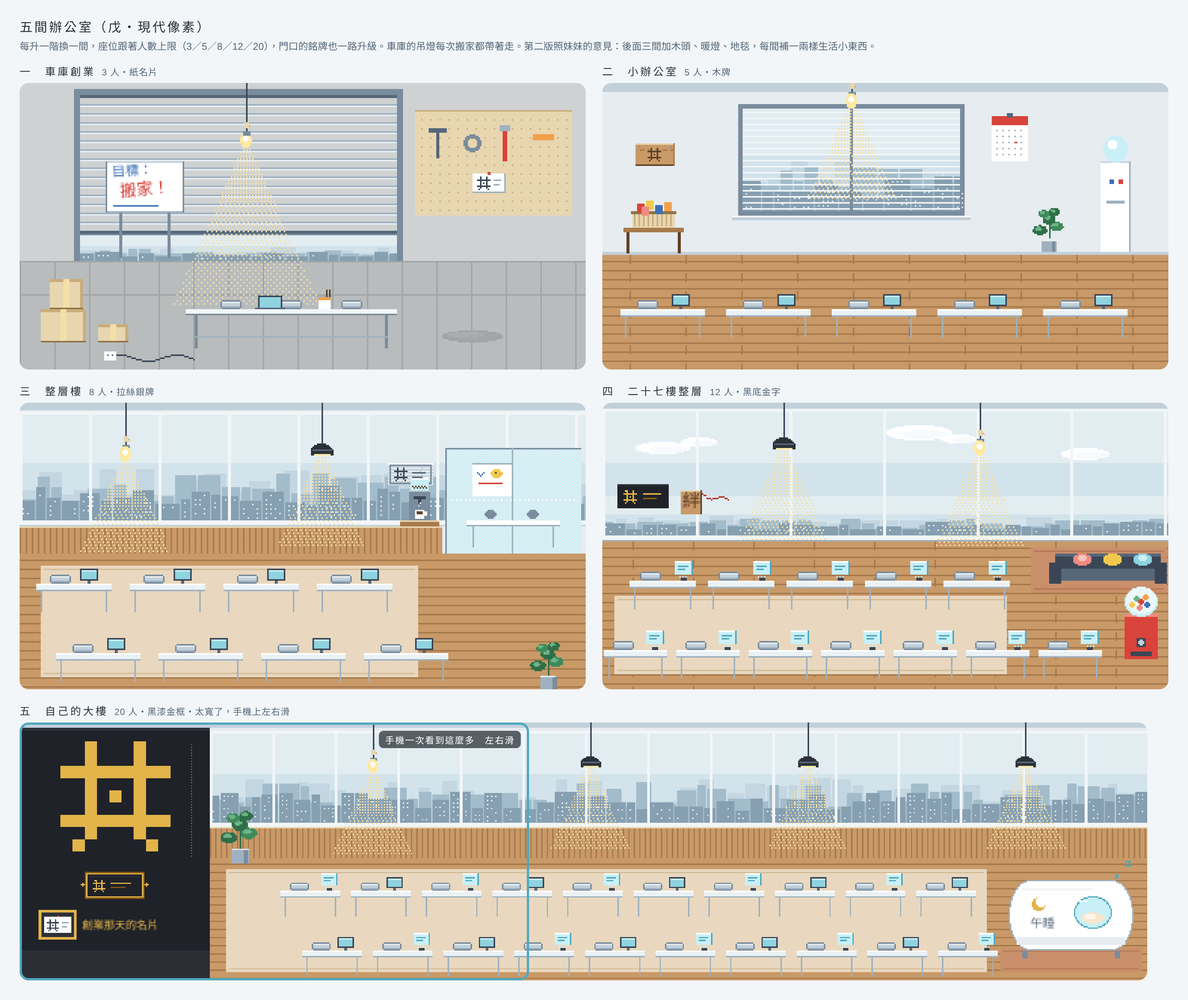
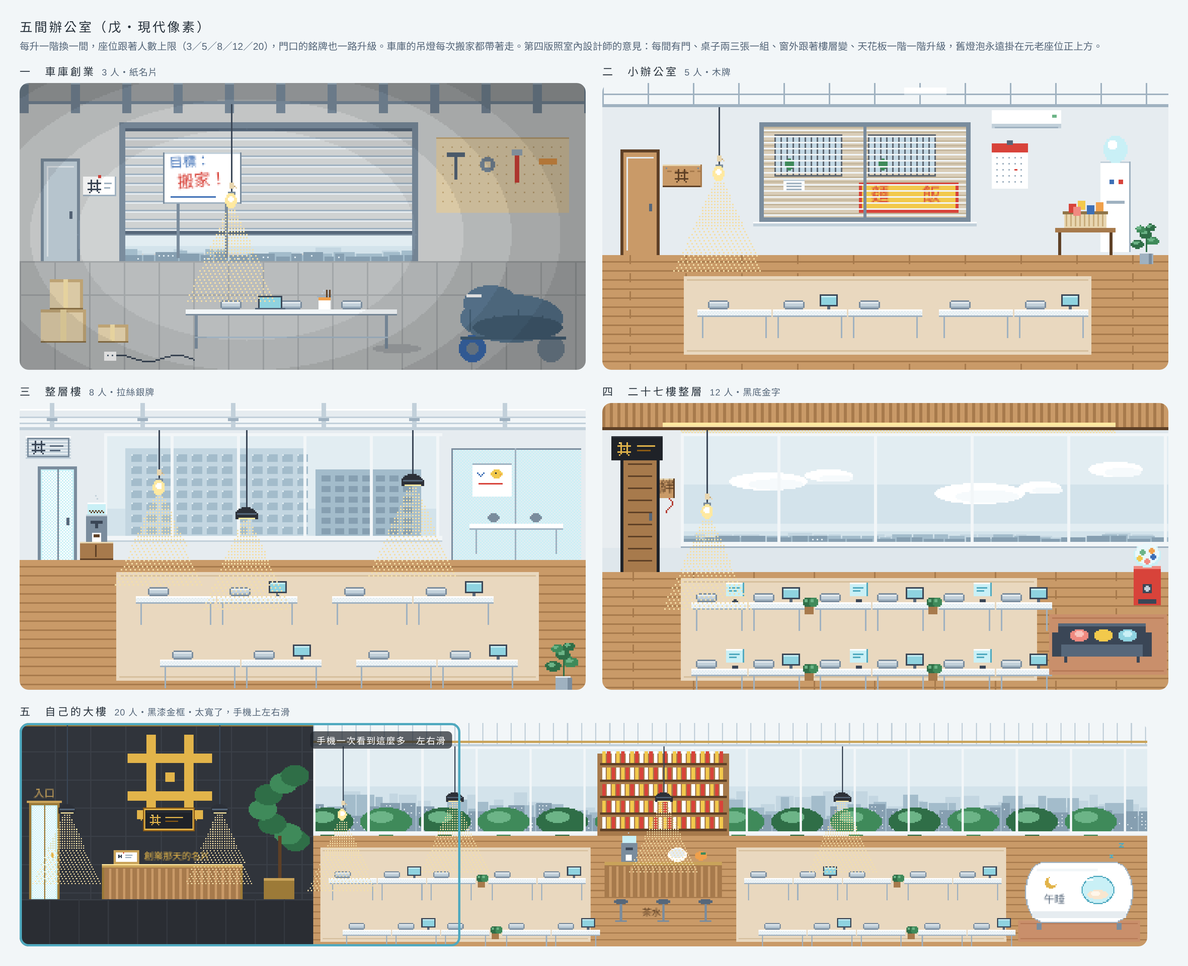
docs: offices v4 per interior designer
Claude-Session: https://claude.ai/code/session_01DfELKGAuUeHGLNNJha5AAX

diff --git a/docs/plans/company/office5.html b/docs/plans/company/office5.html
@@ -5,18 +5,18 @@ body { margin: 0; background: #e4e2dd; font-family: "Noto Sans TC", sans-serif; 
 .wrap { display: inline-block; padding: 22px 26px 26px; background: #f2f6f8; }
 h1 { font-size: 17px; font-weight: 500; letter-spacing: .15em; margin: 0 0 4px; } p { font-size: 13px; margin: 0 0 14px; color: #56677a; }
 .grid { display: grid; grid-template-columns: repeat(2, 750px); gap: 18px 22px; }
-.cell h2 { font-size: 14px; font-weight: 500; letter-spacing: .2em; margin: 0 0 6px; } .wide { grid-column: span 2; } .scroll { position: relative; width: 1494px; } .scroll canvas { width: 1494px; height: 342px; } .view { position: absolute; left: 0; top: 0; width: 675px; height: 342px; border: 3px solid #4fa9bf; border-radius: 12px; box-sizing: border-box; pointer-events: none; } .view span { position: absolute; right: 8px; top: 8px; background: rgba(28,34,41,.7); color: #fff; font-size: 12px; padding: 3px 8px; border-radius: 6px; letter-spacing: .1em; }
+.cell h2 { font-size: 14px; font-weight: 500; letter-spacing: .2em; margin: 0 0 6px; } .wide { grid-column: span 2; } .scroll { position: relative; width: 1494px; } .scroll canvas { width: 1494px; height: 296px; } .view { position: absolute; left: 0; top: 0; width: 584px; height: 296px; border: 3px solid #4fa9bf; border-radius: 12px; box-sizing: border-box; pointer-events: none; } .view span { position: absolute; right: 8px; top: 8px; background: rgba(28,34,41,.7); color: #fff; font-size: 12px; padding: 3px 8px; border-radius: 6px; letter-spacing: .1em; }
 .cell h2 small { font-size: 12px; color: #56677a; letter-spacing: .05em; margin-left: 8px; }
 canvas { image-rendering: pixelated; width: 750px; height: 380px; display: block; border-radius: 12px; }
 </style></head><body><div class="wrap">
 <h1>五間辦公室（戊・現代像素）</h1>
-<p>每升一階換一間，座位跟著人數上限（3／5／8／12／20），門口的銘牌也一路升級。車庫的吊燈每次搬家都帶著走。第二版照妹妹的意見：後面三間加木頭、暖燈、地毯，每間補一兩樣生活小東西。</p>
+<p>每升一階換一間，座位跟著人數上限（3／5／8／12／20），門口的銘牌也一路升級。車庫的吊燈每次搬家都帶著走。第四版照室內設計師的意見：每間有門、桌子兩三張一組、窗外跟著樓層變、天花板一階一階升級，舊燈泡永遠掛在元老座位正上方。</p>
 <div class="grid">
   <div class="cell"><h2>一　車庫創業<small>3 人・紙名片</small></h2><canvas id="s1" width="375" height="190"></canvas></div>
   <div class="cell"><h2>二　小辦公室<small>5 人・木牌</small></h2><canvas id="s2" width="375" height="190"></canvas></div>
   <div class="cell"><h2>三　整層樓<small>8 人・拉絲銀牌</small></h2><canvas id="s3" width="375" height="190"></canvas></div>
   <div class="cell"><h2>四　二十七樓整層<small>12 人・黑底金字</small></h2><canvas id="s4" width="375" height="190"></canvas></div>
-  <div class="cell wide"><h2>五　自己的大樓<small>20 人・黑漆金框・太寬了，手機上左右滑</small></h2><div class="scroll"><canvas id="s5" width="830" height="190"></canvas><div class="view"><span>手機一次看到這麼多　左右滑</span></div></div></div>
+  <div class="cell wide"><h2>五　自己的大樓<small>20 人・黑漆金框・太寬了，手機上左右滑</small></h2><div class="scroll"><canvas id="s5" width="960" height="190"></canvas><div class="view"><span>手機一次看到這麼多　左右滑</span></div></div></div>
 </div>
 </div>
 <script>
@@ -63,122 +63,178 @@ function stage(id, draw) {
     cone(lx, top + len + 9, 61); };
   const txt = (str, a, b, size, col, rot = 0) => { x.save(); x.translate(a, b); x.rotate(rot); x.fillStyle = col; x.font = `${size}px "Noto Sans TC", sans-serif`; x.textBaseline = 'top'; x.fillText(str, 0, 0); x.restore(); };
   const rug = (a, b, w, h, c1, c2) => { R(a, b, w, h, c1); R(a + 2, b + 2, w - 4, 1, c2); R(a + 2, b + h - 3, w - 4, 1, c2); };
-  draw({ R, px, el, checker, dither, glyph, city, glassDesk, monitor, cushion, plant, sign, lamp, newLamp, txt, rug, W });
+  draw({ R, px, el, checker, dither, glyph, city, glassDesk, monitor, cushion, plant, sign, lamp, newLamp, txt, rug, W, x, cone });
 }
 
-// ===== 一　車庫創業：半開的鐵捲門、水泥地、一張折疊桌三個坐墊、吊燈泡、紙箱、延長線 =====
-stage('s1', ({ R, px, el, checker, dither, glyph, city, glassDesk, monitor, cushion, plant, sign, lamp, newLamp, txt, rug, W }) => {
+// 第四版（2026-11-25，室內設計師）：每間左邊有門、銘牌掛在門邊牆上；桌子兩三張一組、中間留走道；窗外跟著樓層變；
+// 天花板一階一階不一樣（車庫裸露低樑 → 輕鋼架 → 管線外露漆白 → 木格柵＋線型燈 → 大廳挑高）；舊燈泡永遠掛在元老座位正上方。
+const C2 = { ap: '#d9cdb8', ap2: '#c4b69c', grill: '#5d6670', tarp: '#5f7f9a', tarp2: '#4a6880', tire: '#2c3038', stone: '#30343b', stone2: '#3a3f47', brass: '#c9a35a', brass2: '#9c7a38' };
+const kit = K => { const { R, px, el, checker, dither, glyph, cushion, glassDesk, monitor, x, W } = K;
+  return {
+    door: (a, top, bot, style) => { const w = 22;   // 門：框＋門板＋把手
+      const fr = style === 1 ? C.g1 : style === 2 ? C.wd0 : style === 3 ? C.g1 : style === 4 ? C.bk : C2.brass2, pn = style === 1 ? C.g3 : style === 2 ? C.wd : style === 3 ? C.cy2 : style === 4 ? C.wd2 : C.cy2;
+      R(a - 2, top - 2, w + 4, bot - top + 2, fr); R(a, top, w, bot - top, pn);
+      if (style === 3 || style === 5) { dither(a + 1, top + 1, w - 2, bot - top - 2, C.wh); R(a + w / 2, top, 1, bot - top, fr); } else if (style === 4) { R(a + 2, top + 3, w - 4, 1, C.wd); for (let j = top + 6; j < bot - 3; j += 8) R(a + 3, j, w - 6, 1, C.wd0); } else { R(a + 2, top + 3, w - 4, 1, C.g4); R(a + 2, top + 3, 1, bot - top - 6, C.g4); }
+      R(a + w - 5, top + (bot - top) / 2, 2, 5, style === 5 ? C.au1 : C.ink3); },
+    // 一組桌子：n 張靠在一起，第一個 k 是元老位（回傳每張的中心）
+    cluster: (a, y, n, w, opt = {}) => { const xs = []; for (let k = 0; k < n; k++) { const cx = a + w / 2 + k * w; glassDesk(cx, y, w - 1, opt.holo && (k % 2 === 0)); if (!opt.holo && (k % 2 === 1 || n === 1)) monitor(cx + w / 4, y); if (opt.holo && k % 2) monitor(cx + w / 4, y); cushion(cx - w / 5, y); xs.push(cx - w / 5); } return xs; },
+    // 四角壓暗：一圈一圈階梯式（像素感）
+    vignette: (cx, cy, r1, r2, k = .72) => { const im = x.getImageData(0, 0, W, 190), d = im.data;
+      for (let j = 0; j < 190; j++) for (let i = 0; i < W; i++) { const dd = Math.hypot((i - cx) / 1.6, j - cy), t = (dd - r1) / (r2 - r1), f = t <= 0 ? 1 : t < .33 ? .94 : t < .66 ? .87 : t < 1 ? .8 : k; if (f < 1) { const o = (j * W + i) * 4; d[o] *= f; d[o + 1] *= f; d[o + 2] *= f; } }
+      x.putImageData(im, 0, 0); },
+    lowPlant: (a, b, w) => { R(a, b - 6, w, 6, C.wd2); R(a, b - 6, w, 1, C.kr); for (let i = 0; i < w; i += 4) { el(a + i + 2, b - 8, 3, 3, i % 8 ? C.gr1 : C.gr0); el(a + i + 1, b - 9, 1.4, 1, C.gr2); } },   // 矮盆栽隔間
+  }; };
+
+// ===== 一　車庫創業：裸露的低樑、半開鐵捲門、側門＋紙名片、一顆燈泡照元老位、四角壓暗、右邊停一台蓋帆布的機車 =====
+stage('s1', K => { const { R, px, el, checker, dither, city, cushion, sign, txt, cone, W } = K, Q = kit(K);
   R(0, 0, W, H, C.cn3);
-  for (let j = 8; j < 118; j += 6) { R(40, j, 210, 1, C.g2); R(40, j + 1, 210, 1, C.g4); }   // 鐵捲門的橫條
-  R(36, 4, 218, 4, C.g1); R(36, 4, 4, 114, C.g1); R(250, 4, 4, 114, C.g1); R(40, 8, 210, 2, C.ink3);
-  city(40, 100, 210, 18, 7); R(40, 98, 210, 2, C.ink3); R(40, 100, 210, 1, C.g1);   // 門沒拉到底，底下看得到外面
-  R(0, 118, W, 72, C.cn); for (let i = 0; i < W; i += 23) R(i, 118, 1, 72, C.cn2); R(0, 118, W, 1, C.cn2); R(0, 140, W, 1, C.cn2);   // 水泥地
-  el(300, 168, 20, 4, C.cn2); el(296, 167, 12, 2, '#a9adae');   // 地上的油漬
-  // 右邊牆：工具板、紙名片
-  R(262, 18, 104, 70, C.kr); R(262, 18, 104, 1, C.kr2); for (let j = 24; j < 86; j += 6) for (let i = 266; i < 364; i += 6) px(i, j, C.kr2);
-  R(276, 30, 2, 20, C.ink3); R(271, 30, 12, 3, C.ink3); el(300, 40, 6, 6, C.g1); el(300, 40, 3, 3, C.kr); R(320, 28, 3, 24, C.red); R(318, 28, 7, 4, C.g2); R(340, 34, 14, 4, C.o2);
-  sign(300, 60, 1);
-  // 吊燈泡
-  R(150, 0, 1, 34, C.ink2); el(150, 38, 4, 5, C.au2); el(150, 37, 2, 2, C.wh); R(148, 32, 5, 3, C.g1); R(149, 26, 3, 4, C.kr); px(152, 28, C.kr2); px(153, 29, C.kr); for (let j = 44; j < 148; j++) { const half = 3 + (j - 44) * .45, step = j < 80 ? 2 : j < 115 ? 3 : 4; for (let i = Math.round(150 - half); i <= 150 + half; i++) if ((i + j) % step === 0 && (j % 2 === 0)) px(i, j, C.warm); }   // 燈泡往下的光，越下面越淡
-  R(58, 52, 50, 34, C.wh); R(58, 52, 50, 1, C.g3); R(58, 85, 50, 1, C.g2); R(57, 52, 1, 34, C.g1); R(108, 52, 1, 34, C.g1); R(66, 86, 2, 30, C.g1); R(98, 86, 2, 30, C.g1);   // 白板
-  txt('目標：', 61, 55, 9, C.b1, -.05); txt('搬家！', 66, 67, 11, C.red, -.08); R(62, 81, 30, 1, C.b1);
-  // 紙箱
-  [[14, 150, 30, 22], [20, 130, 22, 20], [52, 160, 20, 12]].forEach(([a, b, w, h]) => { R(a, b, w, h, C.kr); R(a, b, w, 2, C.kr2); R(a + w / 2 - 2, b, 4, h, C.warm); R(a + w - 2, b, 2, h, C.kr2); R(a, b + h - 1, w, 1, C.kr0); });
-  // 折疊桌＋三個坐墊
+  for (let j = 30; j < 118; j += 6) { R(70, j, 190, 1, C.g2); R(70, j + 1, 190, 1, C.g4); }   // 鐵捲門的橫條
+  R(66, 26, 198, 4, C.g1); R(66, 26, 4, 92, C.g1); R(260, 26, 4, 92, C.g1); R(70, 30, 190, 2, C.ink3);
+  city(70, 100, 190, 18, 7); R(70, 98, 190, 2, C.ink3); R(70, 100, 190, 1, C.g1);
+  R(0, 0, W, 12, C.cn2); for (let i = 0; i < W; i += 34) { R(i, 0, 6, 20, C.g1); R(i, 0, 6, 1, C.g2); } R(0, 12, W, 2, C.g1);   // 裸露的低樑
+  Q.door(16, 52, 118, 1); sign(42, 62, 1);   // 側門＋門邊的紙名片
+  R(0, 118, W, 72, C.cn); for (let i = 0; i < W; i += 23) R(i, 118, 1, 72, C.cn2); R(0, 118, W, 1, C.cn2); R(0, 140, W, 1, C.cn2);
+  el(250, 176, 16, 3, C.cn2);
+  R(276, 36, 88, 50, C.kr); R(276, 36, 88, 1, C.kr2); for (let j = 42; j < 84; j += 6) for (let i = 280; i < 362; i += 6) px(i, j, C.kr2);   // 洞洞板工具牆
+  R(288, 46, 2, 18, C.ink3); R(283, 46, 12, 3, C.ink3); el(310, 54, 5, 5, C.g1); el(310, 54, 2.5, 2.5, C.kr); R(328, 44, 3, 22, C.red); R(326, 44, 7, 4, C.g2); R(344, 50, 12, 4, C.o2);
+  R(96, 46, 50, 34, C.wh); R(96, 46, 50, 1, C.g3); R(96, 79, 50, 1, C.g2); R(95, 46, 1, 34, C.g1); R(146, 46, 1, 34, C.g1); R(104, 80, 2, 36, C.g1); R(136, 80, 2, 36, C.g1);   // 白板
+  txt('目標：', 99, 49, 9, C.b1, -.05); txt('搬家！', 104, 61, 11, C.red, -.08); R(100, 75, 30, 1, C.b1);
+  // 機車蓋著帆布（右半邊）
+  el(300, 176, 9, 9, C.tire); el(300, 176, 4, 4, C.g1); el(352, 176, 9, 9, C.tire); el(352, 176, 4, 4, C.g1);
+  el(326, 156, 34, 16, C2.tarp); el(312, 146, 18, 12, C2.tarp); el(330, 162, 30, 8, C2.tarp2); for (let k = 0; k < 4; k++) R(298 + k * 16, 150 + (k % 2) * 4, 1, 14, C2.tarp2); R(292, 168, 70, 2, C2.tarp2); R(296, 140, 10, 2, C.wh);
+  [[14, 150, 30, 22], [20, 130, 22, 20], [52, 160, 20, 12]].forEach(([a, b, w, h]) => { R(a, b, w, h, C.kr); R(a, b, w, 2, C.kr2); R(a + w / 2 - 2, b, w > 25 ? 4 : 3, h, C.warm); R(a + w - 2, b, 2, h, C.kr2); R(a, b + h - 1, w, 1, C.kr0); });
   const ty = 150; R(110, ty, 140, 3, C.g5); R(110, ty + 3, 140, 1, C.g1); R(116, ty + 4, 2, 22, C.g1); R(242, ty + 4, 2, 22, C.g1); R(116, ty + 18, 128, 1, C.g2);
   [140, 180, 220].forEach(cx => cushion(cx, ty));
-  R(158, ty - 9, 16, 9, C.ink2); R(159, ty - 8, 14, 7, C.cy); R(156, ty - 1, 20, 1, C.ink3);   // 一台筆電
-  R(198, ty - 8, 8, 8, C.wh); R(198, ty - 8, 8, 2, C.o2); R(197, ty - 9, 10, 1, C.g2); R(203, ty - 13, 1, 5, C.wd0); R(205, ty - 13, 1, 5, C.wd0); px(200, ty - 11, C.g3); px(201, ty - 13, C.g3);   // 一碗泡麵（插著筷子、冒煙）
-  for (let i = 60; i < 116; i++) px(i, 182 + Math.round(Math.sin(i / 6) * 2), C.ink2); R(56, 178, 8, 6, C.wh); px(58, 180, C.ink3); px(61, 180, C.ink3);   // 延長線
+  R(158, ty - 9, 16, 9, C.ink2); R(159, ty - 8, 14, 7, C.cy); R(156, ty - 1, 20, 1, C.ink3);
+  R(198, ty - 8, 8, 8, C.wh); R(198, ty - 8, 8, 2, C.o2); R(197, ty - 9, 10, 1, C.g2); R(203, ty - 13, 1, 5, C.wd0); R(205, ty - 13, 1, 5, C.wd0); px(200, ty - 11, C.g3); px(201, ty - 13, C.g3);
+  for (let i = 60; i < 116; i++) px(i, 182 + Math.round(Math.sin(i / 6) * 2), C.ink2); R(56, 178, 8, 6, C.wh); px(58, 180, C.ink3); px(61, 180, C.ink3);
+  Q.vignette(150, 100, 70, 130, .74);   // 四角壓暗，燈泡那一圈最亮
+  R(140, 14, 1, 60, C.ink2); R(138, 72, 5, 3, C.g1); R(139, 66, 3, 4, C.kr); px(142, 68, C.kr2); px(143, 69, C.kr); el(140, 78, 4, 5, C.au2); el(140, 77, 2, 2, C.wh); cone(140, 84, 62);   // 舊燈泡：元老位正上方
 });
 
-// ===== 二　小辦公室：一扇百葉窗、五張小桌、飲水機、盆栽、木牌 =====
-stage('s2', ({ R, px, el, checker, dither, glyph, city, glassDesk, monitor, cushion, plant, sign, lamp, newLamp, txt, rug, W }) => {
-  R(0, 0, W, H, C.g4); R(0, 0, W, 6, C.g3); R(0, 112, W, 2, C.g3);
-  R(90, 14, 150, 74, C.g1); city(93, 17, 144, 68, 21); for (let j = 19; j < 84; j += 4) R(93, j, 144, 1, C.g5); R(164, 17, 2, 68, C.g1);   // 一扇窗＋百葉
-  R(86, 88, 158, 3, C.g3); R(86, 88, 158, 1, C.wh);
-  sign(22, 40, 2);
-  R(258, 22, 24, 30, C.wh); R(258, 22, 24, 6, C.red); R(268, 20, 4, 3, C.ink3); for (let j = 31; j < 50; j += 4) for (let i = 261; i < 280; i += 4) px(i, j, C.g2); px(273, 39, C.red); px(274, 39, C.red);   // 牆上的月曆（圈了一天）
-  lamp(165, 0, 8);
-  // 飲水機
-  R(330, 52, 20, 60, C.wh); R(330, 52, 20, 1, C.g3); R(349, 52, 1, 60, C.g2); el(340, 44, 8, 9, C.cy2); el(338, 41, 3, 3, C.wh); R(336, 64, 3, 3, C.b1); R(342, 64, 3, 3, C.red); R(334, 78, 12, 2, C.g2);
-  plant(296, 112, 1.2);
-  R(14, 96, 40, 3, C.wd2); R(16, 99, 2, 14, C.wd0); R(50, 99, 2, 14, C.wd0); R(20, 86, 28, 10, C.kr); for (let i = 21; i < 47; i += 3) R(i, 87, 1, 8, C.kr2); R(19, 85, 30, 2, C.kr0);   // 零食籃
-  [[23, 80, C.red], [29, 78, C.yl], [35, 81, C.b1], [41, 79, C.o2], [26, 82, C.pk]].forEach(([a, b, c]) => R(a, b, 5, 6, c));
-  R(0, 114, W, 76, C.wd); for (let j = 118; j < H; j += 6) R(0, j, W, 1, C.wd2); for (let i = 0; i < W; i += 37) for (let j = 114; j < H; j += 12) R(i + (j % 24 ? 18 : 0), j, 1, 6, C.wd2);   // 木地板
-  [40, 110, 180, 250, 320].forEach((cx, k) => { glassDesk(cx, 150, 56, false); monitor(cx + 12, 150); cushion(cx - 10, 150); });
+// ===== 二　小辦公室：輕鋼架天花板＋一片平板燈、老公寓二樓（窗外對面是鐵窗和招牌）、分離式冷氣、門＋木牌、三張一組＋兩張一組 =====
+stage('s2', K => { const { R, px, el, checker, dither, plant, sign, lamp, txt, rug, W } = K, Q = kit(K);
+  R(0, 0, W, H, C.g4);
+  R(0, 0, W, 14, C.g5); for (let i = 0; i < W; i += 30) R(i, 0, 1, 14, C.g2); R(0, 7, W, 1, C.g2); R(0, 14, W, 2, C.g2); R(200, 3, 28, 4, C.wh); R(200, 7, 28, 1, C.g3);   // 輕鋼架天花板＋平板燈
+  // 窗：對面老公寓（米色磁磚、鐵窗、冷氣、招牌）
+  R(104, 26, 140, 66, C.g1); R(107, 29, 134, 60, C2.ap); for (let j = 29; j < 89; j += 3) R(107, j, 134, 1, C2.ap2);
+  [[114, 34], [176, 34]].forEach(([a, b]) => { R(a, b, 44, 26, C.sky1); for (let i = a; i <= a + 44; i += 4) R(i, b, 1, 28, C2.grill); R(a, b, 45, 1, C2.grill); R(a, b + 13, 45, 1, C2.grill); R(a, b + 27, 45, 1, C2.grill); el(a + 10, b + 20, 3, 4, C.gr1); });   // 鐵窗＋窗台的小盆栽
+  R(120, 64, 14, 8, C.wh); R(120, 64, 14, 1, C.g3); for (let k = 0; k < 3; k++) R(122, 66 + k * 2, 10, 1, C.g2);   // 對面的冷氣
+  R(170, 66, 66, 20, C.red); R(172, 68, 62, 16, C.yl); txt('麵', 178, 69, 12, C.red); txt('飯', 212, 69, 12, C.red);   // 對面一樓的招牌
+  for (let j = 31; j < 88; j += 4) R(107, j, 134, 1, C.g5); R(173, 29, 2, 60, C.g1);   // 這邊的百葉
+  R(100, 92, 148, 3, C.g3); R(100, 92, 148, 1, C.wh);
+  R(258, 18, 46, 12, C.wh); R(258, 27, 46, 3, C.g3); R(260, 29, 42, 1, C.g2); R(298, 21, 3, 2, C.gr2);   // 分離式冷氣
+  Q.door(14, 46, 114, 2); sign(40, 54, 2);   // 門＋木牌
+  R(258, 40, 24, 30, C.wh); R(258, 40, 24, 6, C.red); R(268, 38, 4, 3, C.ink3); for (let j = 49; j < 68; j += 4) for (let i = 261; i < 280; i += 4) px(i, j, C.g2); px(273, 57, C.red); px(274, 57, C.red);   // 月曆
+  R(330, 52, 20, 60, C.wh); R(330, 52, 20, 1, C.g3); R(349, 52, 1, 60, C.g2); el(340, 44, 8, 9, C.cy2); el(338, 41, 3, 3, C.wh); R(336, 64, 3, 3, C.b1); R(342, 64, 3, 3, C.red); R(334, 78, 12, 2, C.g2);   // 飲水機
+  R(0, 114, W, 76, C.wd); for (let j = 118; j < H; j += 6) R(0, j, W, 1, C.wd2); for (let i = 0; i < W; i += 37) for (let j = 114; j < H; j += 12) R(i + (j % 24 ? 18 : 0), j, 1, 6, C.wd2);
+  R(300, 96, 40, 3, C.wd2); R(302, 99, 2, 15, C.wd0); R(336, 99, 2, 15, C.wd0); R(306, 86, 28, 10, C.kr); for (let i = 307; i < 333; i += 3) R(i, 87, 1, 8, C.kr2); R(305, 85, 30, 2, C.kr0);   // 零食籃（放在邊桌）
+  [[309, 80, C.red], [315, 78, C.yl], [321, 81, C.b1], [327, 79, C.o2], [312, 82, C.pk]].forEach(([a, b, c]) => R(a, b, 5, 6, c));
+  plant(360, 120, 1.1);
+  rug(54, 128, 270, 52, C.rg, C.rg2);
+  const A = Q.cluster(62, 150, 3, 50); Q.cluster(222, 150, 2, 50);   // 三張一組＋兩張一組，中間是走道
+  lamp(A[0], 16, 40);   // 舊燈泡：元老位正上方
 });
 
-// ===== 三　整層樓：一整排落地窗、八個位子（兩排）、玻璃會議室、拉絲銀牌 =====
-stage('s3', ({ R, px, el, checker, dither, glyph, city, glassDesk, monitor, cushion, plant, sign, lamp, newLamp, txt, rug, W }) => {
-  R(0, 0, W, H, C.g4); R(0, 0, W, 5, C.g3);
-  city(0, 8, W, 70, 33); for (let i = 0; i < W; i += 46) R(i, 8, 2, 70, C.g5); R(0, 6, W, 2, C.g5); R(0, 78, W, 3, C.g5); R(0, 81, W, 1, C.g3);
-  // 右邊的玻璃會議室
-  R(282, 30, 90, 70, C.cy2); dither(282, 30, 90, 70, C.sky3); R(282, 30, 90, 1, C.g1); R(282, 30, 1, 70, C.g1); R(326, 30, 1, 70, C.g2); for (let i = 286; i < 370; i += 3) px(i, 64, C.wh);
-  R(296, 78, 62, 3, C.wh); R(296, 81, 62, 1, C.g2); R(300, 82, 1, 14, C.g2); R(353, 82, 1, 14, C.g2); el(312, 74, 4, 3, C.g1); el(340, 74, 4, 3, C.g1);
-  sign(244, 40, 3);
-  R(0, 82, 280, 18, C.wd); for (let i = 0; i < 280; i += 4) R(i, 82, 1, 18, C.wd2); R(0, 82, 280, 1, C.kr);   // 窗下一排木頭牆板
-  R(300, 40, 26, 22, C.wh); R(300, 40, 26, 1, C.g2); [[303, 46], [304, 47], [305, 48], [306, 47], [307, 46]].forEach(([a, b]) => px(a, b, C.b1)); el(316, 47, 4, 3, C.yl); px(315, 46, C.ink); px(318, 47, C.o2); R(304, 53, 16, 1, C.red);   // 會議室白板的塗鴉（畫了一隻鴨）
-  R(0, 100, W, 90, C.wd); for (let j = 104; j < H; j += 6) R(0, j, W, 1, C.wd2);   // 木地板
-  rug(14, 108, 250, 74, C.rg, C.rg2);   // 暖色地毯
-  R(252, 78, 26, 4, C.wd2); R(252, 78, 26, 1, C.kr);   // 小邊櫃
-  R(258, 58, 14, 20, C.g1); R(258, 58, 14, 1, C.g3); R(259, 50, 12, 8, C.cy2); R(259, 50, 12, 1, C.wh); for (let i = 260; i < 270; i += 2) px(i, 55, C.wd0), px(i + 1, 56, C.wd0);   // 咖啡機：上面一罐咖啡豆
-  R(261, 62, 8, 2, C.ink2); R(264, 64, 2, 3, C.ink2); R(262, 71, 6, 6, C.wh); R(263, 72, 4, 2, C.wd0); R(268, 72, 2, 3, C.wh); px(264, 68, C.g3); px(265, 66, C.g4);   // 出水口、一杯咖啡、冒煙
-  px(266, 47, C.g3); px(265, 45, C.g3); px(266, 43, C.g3);
-  lamp(70, 0, 30); newLamp(200, 0, 28);
-  [36, 98, 160, 222].forEach(cx => { glassDesk(cx, 120, 50, false); monitor(cx + 10, 120); cushion(cx - 9, 120); });   // 後排四個
-  [52, 120, 188, 256].forEach(cx => { glassDesk(cx, 166, 56, false); monitor(cx + 12, 166); cushion(cx - 10, 166); });  // 前排四個
-  plant(350, 190, 1.3);
+// ===== 三　整層樓：管線外露漆白、窗外是對面的大樓、門＋拉絲銀牌、兩兩一組四組、玻璃會議室、咖啡機在矮櫃上 =====
+stage('s3', K => { const { R, px, el, checker, dither, city, plant, sign, lamp, newLamp, rug, W } = K, Q = kit(K);
+  R(0, 0, W, H, C.g4);
+  R(0, 0, W, 16, C.g5); el(120, 7, 200, 3.5, C.g4); R(0, 4, W, 6, C.g4); R(0, 4, W, 1, C.wh); R(0, 9, W, 1, C.g3); for (let i = 20; i < W; i += 60) { R(i, 0, 3, 16, C.g3); R(i - 2, 10, 7, 2, C.g2); } R(0, 13, W, 1, C.g3); R(0, 16, W, 2, C.g3);   // 管線外露、漆白
+  // 窗外：對面的大樓立面
+  R(56, 22, 222, 66, C.sky3); R(56, 70, 222, 18, C.sky2);
+  R(70, 30, 120, 58, C.c3); for (let j = 34; j < 88; j += 8) for (let i = 74; i < 186; i += 10) { R(i, j, 7, 5, C.c1); px(i, j, C.sky3); }   // 對面大樓的窗格
+  R(196, 44, 70, 44, C.c1); for (let j = 48; j < 88; j += 7) for (let i = 200; i < 262; i += 9) R(i, j, 6, 4, C.c2);
+  for (let i = 56; i < 280; i += 44) R(i, 22, 2, 66, C.g5); R(56, 20, 224, 2, C.g5); R(56, 88, 224, 3, C.g5); R(56, 91, 224, 1, C.g3);
+  Q.door(14, 44, 108, 3); sign(4, 22, 3);   // 玻璃門＋門上方的拉絲銀牌
+  // 玻璃會議室（右邊）
+  R(286, 30, 86, 74, C.cy2); dither(286, 30, 86, 74, C.sky3); R(286, 30, 86, 1, C.g1); R(286, 30, 1, 74, C.g1); R(328, 30, 1, 74, C.g2);
+  R(300, 40, 26, 22, C.wh); R(300, 40, 26, 1, C.g2); [[303, 46], [304, 47], [305, 48], [306, 47], [307, 46]].forEach(([a, b]) => px(a, b, C.b1)); el(316, 47, 4, 3, C.yl); px(315, 46, C.ink); px(318, 47, C.o2); R(304, 53, 16, 1, C.red);
+  R(298, 80, 62, 3, C.wh); R(298, 83, 62, 1, C.g2); R(302, 84, 1, 16, C.g2); R(355, 84, 1, 16, C.g2); el(314, 76, 4, 3, C.g1); el(342, 76, 4, 3, C.g1);
+  R(0, 104, W, 86, C.wd); for (let j = 108; j < H; j += 6) R(0, j, W, 1, C.wd2);
+  // 咖啡機：放在矮櫃上（門跟窗中間的牆邊）
+  R(40, 92, 22, 12, C.wd2); R(40, 92, 22, 1, C.kr); R(40, 103, 22, 1, C.wd0); R(50, 94, 1, 8, C.wd0);
+  R(44, 74, 14, 18, C.g1); R(44, 74, 14, 1, C.g3); R(45, 66, 12, 8, C.cy2); R(45, 66, 12, 1, C.wh); for (let i = 46; i < 56; i += 2) { px(i, 71, C.wd0); px(i + 1, 72, C.wd0); }
+  R(47, 78, 8, 2, C.ink2); R(50, 80, 2, 3, C.ink2); R(48, 86, 6, 6, C.wh); R(49, 87, 4, 2, C.wd0); px(51, 63, C.g3); px(50, 61, C.g3);
+  rug(64, 112, 280, 72, C.rg, C.rg2);
+  const A = Q.cluster(76, 128, 2, 54); Q.cluster(206, 128, 2, 54);   // 後排兩組
+  Q.cluster(92, 170, 2, 54); Q.cluster(222, 170, 2, 54);   // 前排兩組
+  lamp(A[0], 18, 34); newLamp(260, 18, 30); newLamp(150, 18, 52);
+  plant(360, 190, 1.3);
 });
 
-// ===== 四　二十七樓整層：落地窗看出去在雲上、十二個位子、全息螢幕、沙發區、黑底金字 =====
-stage('s4', ({ R, px, el, checker, dither, glyph, city, glassDesk, monitor, cushion, plant, sign, lamp, newLamp, txt, rug, W }) => {
-  R(0, 0, W, H, '#dfe7ec'); R(0, 0, W, 4, C.g3);
-  R(0, 6, W, 82, C.sky3); R(0, 40, W, 48, C.sky2); city(0, 62, W, 26, 51, 0);   // 27 樓：城市在很下面
-  [[40, 30, 18, 4], [64, 26, 12, 3], [210, 20, 22, 5], [236, 24, 12, 3], [320, 34, 16, 4]].forEach(([a, b, rx, ry]) => { el(a, b, rx, ry, C.wh); el(a + 4, b + 1, rx * .7, ry * .6, C.cl); });   // 雲
-  for (let i = 0; i < W; i += 62) R(i, 6, 2, 82, C.g5); R(0, 4, W, 2, C.g5); R(0, 88, W, 3, C.g5); R(0, 91, W, 1, C.g2);
-  sign(10, 54, 4);
-  R(0, 92, W, 98, C.wd); for (let j = 96; j < H; j += 6) R(0, j, W, 1, C.wd2); for (let i = 0; i < W; i += 40) for (let j = 92; j < H; j += 12) R(i + (j % 24 ? 20 : 0), j, 1, 6, C.wd2);   // 木地板
-  rug(284, 96, 90, 30, C.rg3, '#b77a57');   // 沙發區的地毯
-  rug(8, 128, 260, 52, C.rg, C.rg2);
-  newLamp(120, 0, 24); lamp(250, 0, 26);
-  // 右邊的沙發區
-  R(300, 100, 70, 10, C.ink2); R(300, 100, 70, 2, C.ink3); R(296, 106, 8, 14, C.ink2); R(366, 106, 8, 14, C.ink2); R(304, 110, 62, 8, C.ink3); el(318, 104, 6, 4, C.pk); el(318, 103, 3, 2, C.pk2); el(338, 104, 6, 4, C.yl); el(358, 104, 6, 4, C.cy); el(358, 103, 3, 2, C.cy2);   // 沙發上的抱枕
-  [40, 92, 144, 196, 248].forEach(cx => { glassDesk(cx, 118, 44, true); cushion(cx - 8, 118); });   // 後排
-  [22, 70, 118, 166, 214, 262, 310].forEach(cx => { glassDesk(cx, 164, 42, true); cushion(cx - 8, 164); });   // 前排（右邊留給扭蛋機）
-  // 扭蛋機（跟員工 01～08 呼應）
-  R(346, 140, 22, 30, C.red); R(346, 140, 22, 2, C.pk); R(354, 156, 6, 6, C.ink2); el(357, 159, 2, 2, C.g3); R(350, 165, 14, 3, C.ink2);
-  el(357, 132, 11, 10, C.cy2); el(357, 131, 10, 9, '#eaf8fb'); [[351, 134, C.yl], [356, 136, C.pk], [361, 134, C.b1], [354, 130, C.gr2], [360, 129, C.o2], [357, 132, C.red]].forEach(([a, b, c]) => el(a, b, 2, 2, c)); px(352, 126, C.wh); px(353, 125, C.wh);
-  // 彩蛋：門邊小小一塊「絆」的木牌，綁一條朱色紅線
-  R(52, 58, 14, 16, C.wd); R(52, 58, 14, 1, C.kr); R(65, 58, 1, 16, C.wd0); txt('絆', 53, 60, 12, C.wd0); for (let k = 0; k < 18; k++) px(66 + k, 60 + Math.round(Math.sin(k / 3) * 2) + Math.floor(k / 3), '#b33a2f');
+// ===== 四　二十七樓整層：木格柵天花板＋線型燈、雲就在眼前、門（絆木牌在門柱上）＋黑底金字、兩兩一組六組、矮盆栽隔開、沙發和扭蛋機在地上 =====
+stage('s4', K => { const { R, px, el, checker, dither, city, plant, sign, lamp, txt, rug, W } = K, Q = kit(K);
+  R(0, 0, W, H, '#dfe7ec');
+  R(0, 0, W, 16, C.wd); for (let i = 0; i < W; i += 5) R(i, 0, 2, 16, C.wd2); R(0, 16, W, 2, C.wd0); R(40, 13, 300, 2, C.au2); R(40, 15, 300, 1, C.warm);   // 木格柵天花板＋一條線型燈
+  dither(40, 18, 300, 4, C.warm);
+  R(52, 22, W - 52, 70, C.sky3); R(52, 54, W - 52, 38, C.sky2); city(52, 80, W - 52, 12, 51, 0);   // 往下看：城市在很下面
+  [[110, 52, 26, 6], [150, 48, 16, 4], [250, 60, 30, 7], [290, 56, 14, 4], [340, 44, 18, 5]].forEach(([a, b, rx, ry]) => { el(a, b, rx, ry, C.wh); el(a + 5, b + 2, rx * .7, ry * .6, C.cl); });   // 雲就在眼前
+  for (let i = 52; i < W; i += 64) R(i, 22, 2, 70, C.g5); R(52, 20, W - 52, 2, C.g5); R(52, 92, W - 52, 3, C.g5); R(52, 95, W - 52, 1, C.g2);
+  R(0, 18, 52, 78, '#e8edf0');
+  Q.door(14, 34, 112, 4); sign(6, 22, 4);
+  R(38, 50, 10, 13, C.wd); R(38, 50, 10, 1, C.kr); R(47, 50, 1, 13, C.wd0); txt('絆', 38, 51, 10, C.wd0); for (let k = 0; k < 10; k++) px(44 + Math.round(Math.sin(k / 2) * 2), 63 + k, '#b33a2f');   // 門柱上的「絆」木牌＋紅線垂下來
+  R(0, 112, W, 78, C.wd); for (let j = 116; j < H; j += 6) R(0, j, W, 1, C.wd2); for (let i = 0; i < W; i += 40) for (let j = 112; j < H; j += 12) R(i + (j % 24 ? 20 : 0), j, 1, 6, C.wd2);
+  rug(52, 116, 236, 68, C.rg, C.rg2);
+  const A = Q.cluster(58, 132, 2, 38, { holo: true }); Q.cluster(140, 132, 2, 38, { holo: true }); Q.cluster(222, 132, 2, 38, { holo: true });   // 後排三組
+  Q.lowPlant(134, 140, 6); Q.lowPlant(216, 140, 6);
+  Q.cluster(58, 176, 2, 38, { holo: true }); Q.cluster(140, 176, 2, 38, { holo: true }); Q.cluster(222, 176, 2, 38, { holo: true });   // 前排三組
+  Q.lowPlant(134, 184, 6); Q.lowPlant(216, 184, 6);
+  // 休息區：沙發放在地上、旁邊扭蛋機
+  rug(296, 140, 78, 40, C.rg3, '#b77a57');
+  R(302, 146, 58, 14, C.ink2); R(302, 146, 58, 2, C.ink3); R(298, 152, 8, 16, C.ink2); R(356, 152, 8, 16, C.ink2); R(304, 160, 54, 8, C.ink3); R(306, 168, 2, 4, C.ink2); R(354, 168, 2, 4, C.ink2);
+  el(316, 154, 6, 4, C.pk); el(316, 153, 3, 2, C.pk2); el(332, 154, 6, 4, C.yl); el(348, 154, 6, 4, C.cy); el(348, 153, 3, 2, C.cy2);
+  R(352, 108, 18, 26, C.red); R(352, 108, 18, 2, C.pk); R(358, 120, 6, 6, C.ink2); el(361, 123, 2, 2, C.g3); R(355, 130, 12, 3, C.ink2);
+  el(361, 101, 9, 8, C.cy2); el(361, 100, 8, 7, '#eaf8fb'); [[356, 103, C.yl], [361, 105, C.pk], [365, 102, C.b1], [358, 99, C.gr2], [364, 98, C.o2]].forEach(([a, b, c]) => el(a, b, 2, 2, c));
+  lamp(A[0], 18, 50);
 });
 
-// ===== 五　自己的大樓：太寬了做成左右滑（750 寬，手機一次看 375）。左邊大廳：黑色「丼」字牆、黑漆金框銘牌、牆上裱框的車庫紙名片、吊燈；右邊兩排二十個位子 =====
-stage('s5', ({ R, px, el, checker, dither, glyph, city, glassDesk, monitor, cushion, plant, sign, lamp, newLamp, txt, rug, W }) => {
-  R(0, 0, W, H, C.g4); R(0, 0, W, 4, C.g3);
-  city(140, 8, W - 140, 66, 77); for (let i = 140; i < W; i += 46) R(i, 8, 2, 66, C.g5); R(140, 6, W - 140, 2, C.g5); R(140, 74, W - 140, 3, C.g5);
-  R(140, 77, W - 140, 23, C.wd); for (let i = 140; i < W; i += 4) R(i, 77, 1, 23, C.wd2); R(140, 77, W - 140, 1, C.kr);   // 窗下木牆板
-  R(0, 4, 140, 186, C.bk); R(0, 4, 140, 2, C.bk2); glyph(DON, 30, 14, C.au1, 9); for (let j = 16; j < 100; j += 2) px(126, j, C.au0);   // 黑色「丼」字牆
-  sign(48, 110, 5);
-  R(14, 138, 28, 22, C.au1); R(16, 140, 24, 18, C.bk2); R(18, 143, 20, 12, C.wh); glyph(DON, 20, 145, C.ink2); R(31, 147, 5, 1, C.g2); R(31, 150, 4, 1, C.g2); px(28, 142, C.red);   // 裱框的車庫紙名片
-  txt('創業那天的名片', 46, 146, 8, C.au1);
-  R(0, 168, 140, 22, '#2a2d33'); R(0, 168, 140, 1, C.bk2);
-  R(140, 100, W - 140, 90, C.wd); for (let j = 104; j < H; j += 6) R(140, j, W - 140, 1, C.wd2);
-  rug(152, 108, 560, 76, C.rg, C.rg2);
-  plant(162, 104, 1.6);
-  lamp(260, 0, 28); [420, 580, 740].forEach(lx => newLamp(lx, 0, 26));
-  for (let k = 0; k < 10; k++) { const cx = 214 + k * 52; glassDesk(cx, 124, 44, k % 2 === 0); if (k % 2) monitor(cx + 10, 124); cushion(cx - 8, 124); }   // 後排十個
-  for (let k = 0; k < 10; k++) { const cx = 230 + k * 52; glassDesk(cx, 168, 44, k % 2 === 1); if (k % 2 === 0) monitor(cx + 10, 168); cushion(cx - 8, 168); }   // 前排十個
-  // 只有自己的大樓才有：茱莉鴨的午睡艙（膠囊、圓窗裡一顆枕頭、Z 往上飄、門口小月亮）
-  { const a = 728, b = 116, w = 92, h = 52;
-    rug(a - 6, 166, w + 12, 18, C.rg3, '#b77a57');
+// ===== 五　自己的大樓（960 寬，左右滑）：入口大門 → 挑高兩層的大廳（黑石「丼」字牆、接待櫃台、櫃台後面掛車庫名片、大樹）→ 辦公一區 → 茶水吧＋書牆 → 辦公二區 → 午睡艙 =====
+stage('s5', K => { const { R, px, el, checker, dither, glyph, city, plant, sign, lamp, newLamp, txt, rug, W } = K, Q = kit(K);
+  R(0, 0, W, H, C.g4);
+  // 窗外：自己的屋頂花園（樹冠）＋遠方城市
+  city(250, 22, W - 250, 70, 77); for (let i = 0; i < 14; i++) { el(262 + i * 50, 84, 22, 12, i % 2 ? C.gr1 : C.gr0); el(258 + i * 50, 80, 10, 5, C.gr2); }
+  for (let i = 250; i < W; i += 46) R(i, 22, 2, 70, C.g5); R(250, 20, W - 250, 2, C.g5); R(250, 92, W - 250, 3, C.g5);
+  R(250, 0, W - 250, 18, C.g5); for (let i = 250; i < W; i += 12) R(i, 0, 1, 18, C.g3); R(250, 15, W - 250, 2, C2.brass); R(250, 18, W - 250, 2, C.g3);   // 辦公區天花板＋黃銅線型燈
+  // 大廳：挑高兩層（沒有天花板那一條）、黑石牆、入口大門
+  R(0, 0, 250, H, C2.stone); for (let i = 0; i < 250; i += 30) R(i, 0, 1, 150, C2.stone2); for (let j = 0; j < 150; j += 24) R(0, j, 250, 1, C2.stone2);
+  R(0, 0, 250, 3, C2.brass2);
+  Q.door(10, 70, 150, 5); R(6, 66, 30, 2, C2.brass); txt('入口', 12, 56, 9, C2.brass);   // 入口大門（黃銅框玻璃門）
+  glyph(DON, 92, 10, C.au1, 8);   // 黑石上的金色「丼」
+  sign(105, 72, 5);
+  R(70, 120, 120, 30, C2.brass2); R(70, 120, 120, 3, C2.brass); R(72, 123, 116, 27, C.wd2); for (let i = 76; i < 186; i += 6) R(i, 124, 2, 26, C.wd); R(70, 120, 120, 1, C.au2);   // 接待櫃台（木頭＋黃銅檯面）
+  R(80, 108, 22, 12, C2.brass); R(82, 110, 18, 8, C.wh); glyph(['x.x', 'xxx', 'x.x'], 84, 112, C.ink2); R(90, 112, 6, 1, C.g2); R(90, 114, 5, 1, C.g2); px(88, 110, C.red);   // 櫃台上裱框的車庫紙名片
+  txt('創業那天的名片', 106, 110, 8, C.au1);
+  R(0, 150, 250, 40, '#2a2d33'); R(0, 150, 250, 1, C2.stone2); for (let i = 0; i < 250; i += 25) R(i, 150, 1, 40, '#34383f');   // 黑石地
+  R(208, 132, 26, 18, C2.brass2); R(208, 132, 26, 2, C2.brass); for (let k = 0; k < 7; k++) el(221 + Math.cos(k) * 14, 100 - k * 9 + Math.sin(k) * 4, 12, 9, k % 2 ? C.gr1 : C.gr0); R(220, 96, 3, 36, C.wd0);   // 大樹
+  [[40, 0, 70], [170, 0, 70]].forEach(([lx, t, l]) => newLamp(lx, t, l));
+  // 辦公區地板
+  R(250, 96, W - 250, 94, C.wd); for (let j = 100; j < H; j += 6) R(250, j, W - 250, 1, C.wd2);
+  // 一區（10 個）
+  rug(256, 106, 230, 80, C.rg, C.rg2);
+  const A = Q.cluster(262, 132, 3, 42); Q.cluster(398, 132, 2, 42); Q.lowPlant(390, 140, 6);
+  Q.cluster(274, 176, 3, 42); Q.cluster(410, 176, 2, 42); Q.lowPlant(402, 184, 6);
+  // 茶水吧＋書牆（把二十張桌子切成兩區）
+  R(492, 26, 112, 70, C.wd2); for (let j = 34; j < 96; j += 14) { R(494, j, 108, 2, C.wd0); for (let i = 496; i < 600; i += 4) R(i, j - 10, 3, 10, [C.red, C.b1, C.yl, C.gr1, C.wh, C.o2][(i + j) % 6]); }   // 書牆
+  R(498, 120, 100, 28, C.wd2); R(498, 118, 100, 3, C2.brass); for (let i = 502; i < 596; i += 6) R(i, 122, 2, 26, C.wd);   // 茶水吧檯
+  R(512, 102, 14, 16, C.g1); R(513, 96, 12, 6, C.cy2); R(516, 106, 6, 2, C.ink2); R(516, 112, 5, 5, C.wh); px(518, 93, C.g3);   // 咖啡機
+  el(560, 112, 8, 6, C.wh); el(560, 111, 6, 4, C.g4); el(580, 113, 5, 4, C.o2); el(582, 111, 2, 1.4, C.gr1);   // 一盤點心、一顆橘子
+  [512, 548, 584].forEach(a => { el(a, 152, 6, 2, C.ink3); R(a - 1, 154, 2, 14, C.g1); R(a - 5, 168, 10, 1, C.g1); });   // 吧檯椅
+  txt('茶水', 530, 158, 8, C.wd0);
+  // 二區（10 個）
+  rug(610, 106, 230, 80, C.rg, C.rg2);
+  Q.cluster(616, 132, 3, 42); Q.cluster(752, 132, 2, 42); Q.lowPlant(744, 140, 6);
+  Q.cluster(628, 176, 3, 42); Q.cluster(764, 176, 2, 42); Q.lowPlant(756, 184, 6);
+  lamp(A[0], 20, 54); [370, 548, 700].forEach(lx => newLamp(lx, 20, 40));
+  // 茱莉鴨的午睡艙
+  { const a = 856, b = 118, w = 92, h = 52;
+    rug(a - 6, 168, w + 12, 18, C.rg3, '#b77a57');
     el(a + 16, b + h / 2, 16, h / 2, C.g2); el(a + w - 16, b + h / 2, 16, h / 2, C.g2); R(a + 16, b, w - 32, h, C.g2);
     el(a + 16, b + h / 2, 15, h / 2 - 1, C.wh); el(a + w - 16, b + h / 2, 15, h / 2 - 1, C.wh); R(a + 16, b + 1, w - 32, h - 2, C.wh);
     R(a + 6, b + h - 10, w - 12, 6, C.g4); R(a + 10, b + 6, w - 40, 2, C.g5);
-    el(a + w - 30, b + 24, 14, 12, C.cy0); el(a + w - 30, b + 24, 13, 11, C.cy2); el(a + w - 30, b + 28, 9, 4, '#f8e6cf'); el(a + w - 32, b + 27, 4, 2, '#fff6ea'); R(a + w - 40, b + 15, 6, 1, C.wh);   // 圓窗裡的枕頭
-    el(a + 22, b + 18, 5, 5, C.au1); el(a + 24, b + 16, 4, 4, C.wh);   // 門口的小月亮
+    el(a + w - 30, b + 24, 14, 12, C.cy0); el(a + w - 30, b + 24, 13, 11, C.cy2); el(a + w - 30, b + 28, 9, 4, '#f8e6cf'); el(a + w - 32, b + 27, 4, 2, '#fff6ea'); R(a + w - 40, b + 15, 6, 1, C.wh);
+    el(a + 22, b + 18, 5, 5, C.au1); el(a + 24, b + 16, 4, 4, C.wh);
     txt('午睡', a + 16, b + 28, 9, C.ink3);
-    [[a + w - 14, b - 4, 1], [a + w - 6, b - 14, 1.34]].forEach(([zx, zy, sc]) => { const z = Math.round(3 * sc); R(zx, zy, z, 1, C.cy0); for (let k = 1; k < z - 1; k++) px(zx + z - 1 - k, zy + k, C.cy0); R(zx, zy + z - 1, z, 1, C.cy0); });
+    [[a + w - 20, b - 6, 1], [a + w - 12, b - 16, 1.34]].forEach(([zx, zy, sc]) => { const z = Math.round(3 * sc); R(zx, zy, z, 1, C.cy0); for (let k = 1; k < z - 1; k++) px(zx + z - 1 - k, zy + k, C.cy0); R(zx, zy + z - 1, z, 1, C.cy0); });
     R(a + 10, b + h, 4, 6, C.g1); R(a + w - 14, b + h, 4, 6, C.g1); }
 });
 </script></body></html>

diff --git a/docs/plans/company/README.md b/docs/plans/company/README.md
@@ -70,3 +70,4 @@
   - 妹妹第一輪：車庫、小辦公室有故事感；後三間「越升級越像考場或網咖」、灰藍太冷（角色放進去像在醫院上班）、大樓太擠。使用者：「都照妹妹的意見。」第二版：車庫那顆吊燈每次搬家都帶著走（每間都有）；車庫白板歪歪寫「目標：搬家！」、泡麵插筷子冒煙；小辦公室月曆（圈一天）、零食籃；整層樓木牆板＋木地板＋暖色地毯、咖啡機、會議室白板畫了一隻鴨；二十七樓木地板、地毯、沙發抱枕、扭蛋機（呼應員工 01～08）、彩蛋＝門邊一塊「絆」木牌綁朱色紅線；大樓改成 750 寬可以左右滑（手機一次看 375），大廳牆上裱框掛著車庫那張紙名片「創業那天的名片」，二十個位子跟整層樓一樣大。對照 `office5-before-after.png`。
   - 妹妹第二輪：暖起來了、想搬家的感覺有了（白板「目標：搬家」到大樓「創業那天的名片」很感動）。卡：看不出哪盞是車庫帶來的燈、大樓滑過大廳就跟二十七樓一樣、咖啡機像印表機。第三版：車庫那顆舊燈泡電線纏一圈牛皮紙膠帶，每間只有它一盞，其他換黑色燈罩的新吊燈；咖啡機重畫（上面一罐咖啡豆、出水口、一杯冒煙的咖啡、放在小邊櫃上）；大樓加寬到 830，最右邊是只有自己大樓才有的「茱莉鴨的午睡艙」（白色膠囊、圓窗裡一顆暖色枕頭、門口小月亮、Z 往上飄）。
   - 妹妹：「可以定稿了！」午睡艙要滑到底才看得到，像藏起來的獎勵；之後茱莉鴨躺進去打呼。**五間辦公室定稿**。
+  - **室內設計師**（AI 審稿員，台灣商業空間十多年）：五間都沒有門（銘牌只好貼玻璃上）、桌子全排一直線面向鏡頭像考場；車庫亮度太平均、右半邊太空；小辦公室五人公司應該在老公寓二三樓、窗外卻是高樓；整層樓木條牆把窗切一半像柵欄；二十七樓沙發畫在窗台高度、扭蛋機擋桌子、十二人只有兩盞燈；大樓只是二十七樓拉長、大廳沒櫃台沒入口。層次表：天花板 車庫裸露低樑 → 輕鋼架 → 管線外露漆白 → 木格柵＋線型燈 → 大廳挑高；材質 水泥紙箱 → 木地板 → 木＋地毯 → 石材＋木 → 黑石＋黃銅；公共區 沒有 → 飲水機 → 咖啡＋會議室 → 休息區 → 大廳＋茶水吧＋午睡艙；舊燈泡永遠掛在元老座位正上方。**第四版照她的清單**：每間左邊有門、銘牌在門邊；桌子兩三張一組留走道（四五間用矮盆栽隔開）；窗外跟樓層變（二 對面老公寓鐵窗＋「麵／飯」招牌、三 對面大樓立面、四 雲在眼前、五 自己的屋頂花園）；天花板照層次表；車庫四角階梯式壓暗＋右邊一台蓋帆布的機車；小辦公室分離式冷氣；整層樓咖啡機放矮櫃上；二十七樓「絆」木牌在門柱上、沙發和扭蛋機在地上；大樓加寬到 960：入口黃銅玻璃門 → 挑高黑石大廳（金色丼字、接待櫃台、櫃台上裱框的車庫名片、大樹）→ 一區 → 茶水吧＋書牆 → 二區 → 午睡艙。

diff --git a/changelog/2026-11.md b/changelog/2026-11.md
@@ -1400,3 +1400,8 @@
 
 ## 2026-11-25 11:00（台灣）　開公司：五間辦公室定稿
 - 妹妹說可以定稿了。美術這一階段完成：九個角色＋小動畫、八種一般員工、五間辦公室。只是企劃，網站沒有變。
+
+## 2026-11-25 11:40（台灣）　開公司：辦公室照室內設計師的意見重排
+- 請了室內設計師看：每間都沒有門、桌子排成一直線像考場、大樓只是二十七樓拉長。
+- 第四版：每間都有門，銘牌掛在門邊；桌子兩三張一組、中間留走道；窗外風景跟著樓層變（小辦公室看到對面老公寓的鐵窗和「麵、飯」招牌、二十七樓雲就在眼前、大樓看出去是自己的屋頂花園）；天花板一間比一間高級；車庫角落變暗、停一台蓋帆布的機車；大樓多了入口大門、接待櫃台和茶水吧。
+- 舊燈泡永遠掛在元老座位的正上方。只是企劃，網站沒有變。
